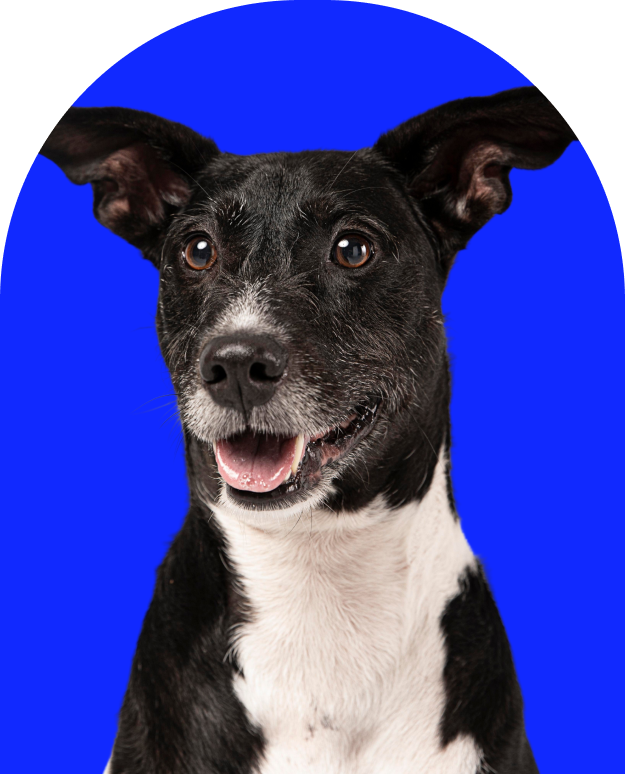
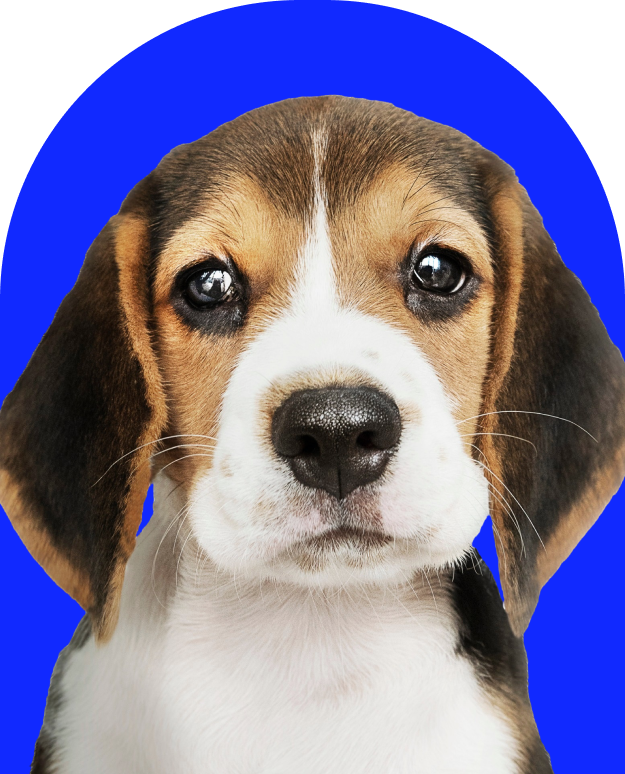
Mudança na listagem de tipo do animal no cadastro de pet

diff --git a/site/public/cadastro-pet.html b/site/public/cadastro-pet.html
@@ -61,11 +61,11 @@
                 <div id="sexo_msg" class="mensagem mensagem_erro"></div>
 
                 <label for="sel_tipo">Tipo do animal</label> <br>
-                <select class="lista" id="sel_tipo" oninput="validarCampos()">
+                <select class="lista" id="sel_tipo" oninput="validarCampos()" onchange="mudarImagem()">
                     <option value="#">Selecione uma opção</option>
                     <option>Gato</option>
                     <option>Cachorro</option>
-                    <option>Pássaro</option>
+                    <option value="Passaro">Pássaro</option>
                     <option>Coelho</option>
                     <option>Outros</option>
                 </select> <br>
@@ -76,8 +76,8 @@
 
             </div>
 
-            <div class="container-imagem">
-                <img src="assets/img-gato-coelho.png" id="" alt="Imagem com animais">
+            <div class="container-imagem" id="img_cadastro">
+                <img src="assets/img-gato-coelho.png" alt="Imagem com animais">
             </div>
 
         </div>
@@ -97,6 +97,14 @@
 </html>
 <script>
     var camposValidos = false
+
+    function mudarImagem() {
+        var tipo = sel_tipo.value
+
+        if(tipo != '#'){
+            img_cadastro.innerHTML = `<img src="assets/img-${tipo}.png">`
+        }
+    }
 
     function validarCampos() {
         var nomePetVar = ipt_pet_nome.value

diff --git a/site/public/home-usuario.html b/site/public/home-usuario.html
@@ -273,7 +273,8 @@
 
             if (resposta.ok) {
                 console.log(resposta);
-
+                p_mensagem.innerHTML = ``
+                
                 resposta.json().then(json => {
                     var tabelaTarefas = document.getElementById('tabela')
                     var qtdLinhas = tabelaTarefas.rows.length

diff --git a/site/public/login.html b/site/public/login.html
@@ -39,7 +39,7 @@
 
         <div class="container">
             <div class="container-imagem">
-                <img src="assets/img-gato.png" alt="Imagem de um gato">
+                <img src="assets/img-gato2.png" alt="Imagem de um gato">
             </div>
 
             <div class="container-campos">

diff --git a/site/public/cadastro.html b/site/public/cadastro.html
@@ -70,7 +70,7 @@
             </div>
 
             <div class="container-imagem">
-                <img src="assets/img-cachorro.png" alt="Imagem de um gato">
+                <img src="assets/img-cachorro2.png" alt="Imagem de um cachorro">
             </div>
 
         </div>
